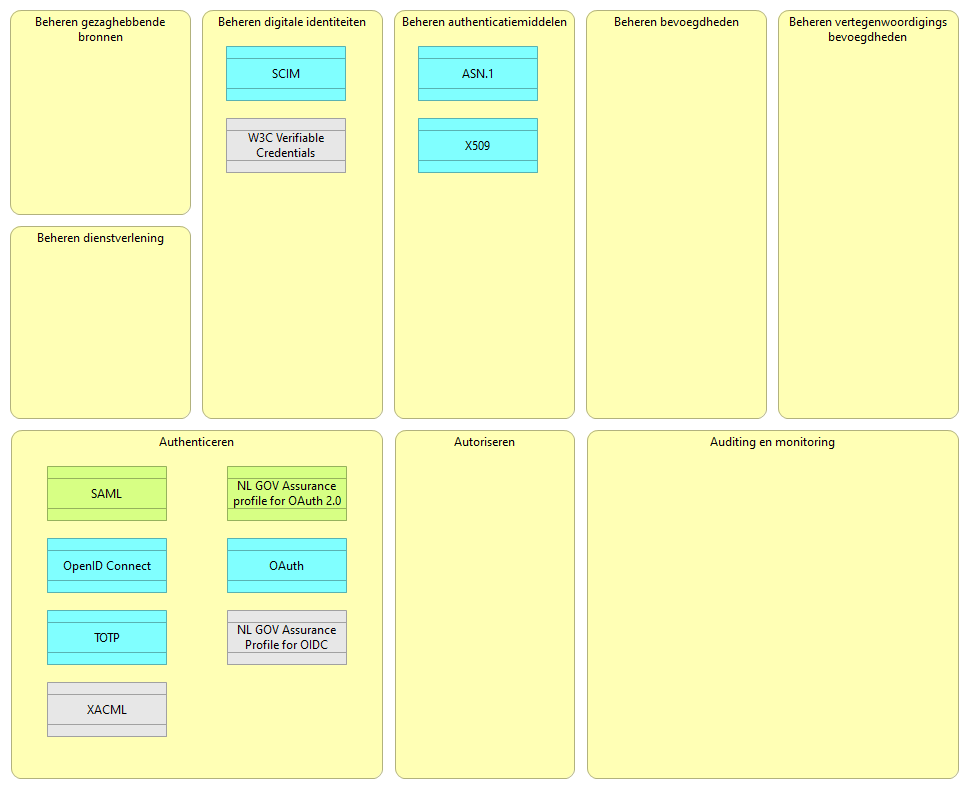
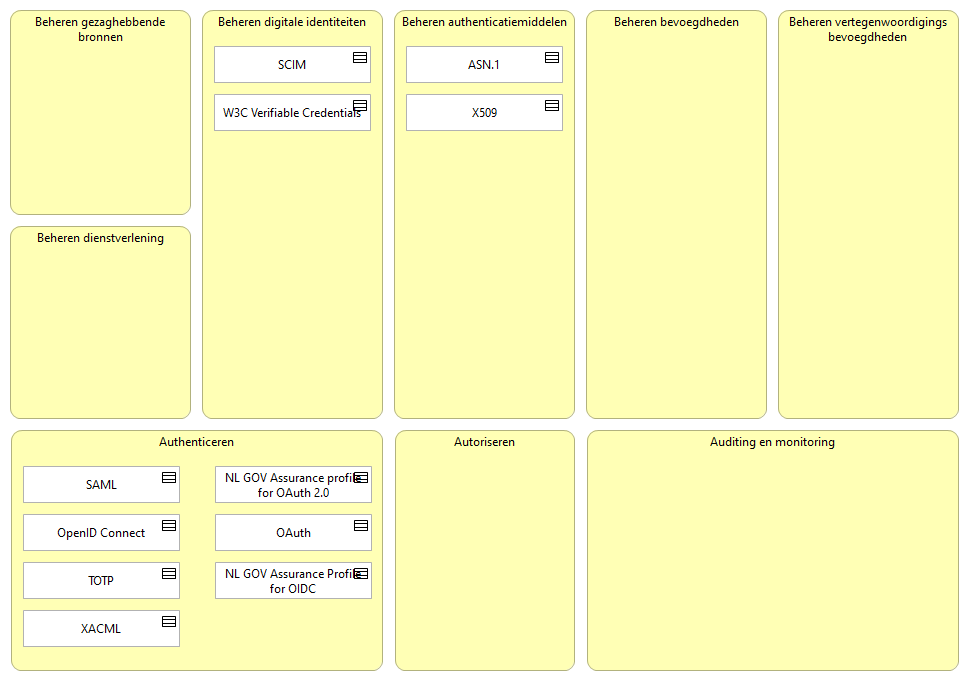
standaarden bijgewerkt

diff --git a/docs/id-3b66eec68cbc4ed8a552deca4e788391/elements/model.html b/docs/id-3b66eec68cbc4ed8a552deca4e788391/elements/model.html
@@ -159,42 +159,52 @@
 										dataFoldersContent.push({folderid:"id-2685567a88094938b56826bda78083a1", contentid:"id-67f687b1591741afbec97c61e754694b", contenttype:"Contract"});
 											dataElements.push({id:"id-67f687b1591741afbec97c61e754694b", type:"Contract", specialization:decodeURL(""), name:decodeURL("OpenID+Connect"), documentation:decodeURL("OpenID+Connect+%28OIDC%29+is+een+open+en+gedistribueerde+manier+om+%C3%A9%C3%A9n+authenticatiedienst+naar+keuze+te+kunnen+hergebruiken+bij+meerdere+%28semi-%29overheidsdienstverleners%2C+bij+gebruik+vanuit+onder+andere+webapplicaties+en+mobiele+apps.+Belangrijkste+redenen+om+op+OIDC+in+te+zetten+is+de+actieve+ontwikkelingen+en+de+mobile-first+strategie+ondersteuning+van+digitale+overheidsdiensten.")});
 														dataProperties.push({conceptid:"id-67f687b1591741afbec97c61e754694b", propkey:decodeURL("Status"), propvalue:decodeURL("Aanbevolen")});
+														dataProperties.push({conceptid:"id-67f687b1591741afbec97c61e754694b", propkey:decodeURL("URL"), propvalue:decodeURL("https%3A%2F%2Fwww.forumstandaardisatie.nl%2Fopen-standaarden%2Foidc")});
 
 										dataFoldersContent.push({folderid:"id-2685567a88094938b56826bda78083a1", contentid:"id-7470e5e65f3d4f208fe8a0f4f541ffe9", contenttype:"Contract"});
 											dataElements.push({id:"id-7470e5e65f3d4f208fe8a0f4f541ffe9", type:"Contract", specialization:decodeURL(""), name:decodeURL("NL+GOV+Assurance+Profile+for+OIDC"), documentation:decodeURL("Het+NL+GOV+Assurance+profile+for+OIDC+1.0+geeft+door+dienstverleners+aangeboden+diensten+de+mogelijkheid+om+de+identiteit+van+een+eindgebruiker+te+controleren+gebaseerd+op+verschillende+authenticatieservices+%28zoals+DigiD%29%2C+waarbij+profielinformatie+van+de+eindgebruiker+volgens+een+gestandaardiseerde+wijze+beschikbaar+wordt+gesteld+aan+de+daarvoor+geautoriseerde+diensten.")});
 														dataProperties.push({conceptid:"id-7470e5e65f3d4f208fe8a0f4f541ffe9", propkey:decodeURL("Status"), propvalue:decodeURL("In+behandeling")});
+														dataProperties.push({conceptid:"id-7470e5e65f3d4f208fe8a0f4f541ffe9", propkey:decodeURL("URL"), propvalue:decodeURL("https%3A%2F%2Fwww.forumstandaardisatie.nl%2Fopen-standaarden%2Fnl-gov-assurance-profile-oidc")});
 
 										dataFoldersContent.push({folderid:"id-2685567a88094938b56826bda78083a1", contentid:"id-8bfadaec74214885b2cfe62b7eb1f86c", contenttype:"Contract"});
 											dataElements.push({id:"id-8bfadaec74214885b2cfe62b7eb1f86c", type:"Contract", specialization:decodeURL(""), name:decodeURL("ASN.1"), documentation:decodeURL("Abstract+syntax+notation+one+%28ASN.1%29+wordt+veel+gebruikt+voor+het+beschrijven+van+X.509+certificaten+en+toepassing+daarvan.+Voorbeeld+van+een+toepassing+is+RSA+public+key+voor+beveiliging+van+het+transactieverkeer+in+de+elektronische+handel.+Hiernaast+deze+standaard+een+syntax+om+data+in+telecommunicatie+en+computer+netwerken+te+representeren%2C+te+coderen%2C+over+te+brengen+en+te+decoderen.")});
 														dataProperties.push({conceptid:"id-8bfadaec74214885b2cfe62b7eb1f86c", propkey:decodeURL("Status"), propvalue:decodeURL("Aanbevolen")});
+														dataProperties.push({conceptid:"id-8bfadaec74214885b2cfe62b7eb1f86c", propkey:decodeURL("URL"), propvalue:decodeURL("https%3A%2F%2Fwww.forumstandaardisatie.nl%2Fopen-standaarden%2Fasn1")});
 
 										dataFoldersContent.push({folderid:"id-2685567a88094938b56826bda78083a1", contentid:"id-9ce6a7b4ca1f4ab5a357b87721bfe527", contenttype:"Contract"});
 											dataElements.push({id:"id-9ce6a7b4ca1f4ab5a357b87721bfe527", type:"Contract", specialization:decodeURL(""), name:decodeURL("X509"), documentation:decodeURL("De+standaard+is+belangrijk+voor+de+authenticatie+van+applicaties%2C+gebruikers%2C+systemen+via+certificaten+op+het+internet.+Hierbij+kan+het+gaan+om+www%2C+elektronische+mail+%28beveiligd%29%2C+gebruikers+authenticatie+en+IPsec%2C+SSL+en+TLS.+Elke+gebruiker+kan+op+deze+manier+via+bijvoorbeeld+zijn+browser+verifi%C3%ABren+of+het+certificaat+dat+gebruikt+wordt+voor+de+beveiligde+koppeling+nog+valide+is+of+dat+deze+ingetrokken+is+en+of+een+verbinding+dus+wel+of+niet+veilig+is.")});
 														dataProperties.push({conceptid:"id-9ce6a7b4ca1f4ab5a357b87721bfe527", propkey:decodeURL("Status"), propvalue:decodeURL("Aanbevolen")});
+														dataProperties.push({conceptid:"id-9ce6a7b4ca1f4ab5a357b87721bfe527", propkey:decodeURL("URL"), propvalue:decodeURL("https%3A%2F%2Fwww.forumstandaardisatie.nl%2Fopen-standaarden%2Fx509")});
 
 										dataFoldersContent.push({folderid:"id-2685567a88094938b56826bda78083a1", contentid:"id-b2cd04660195460bb1efd59d273eb609", contenttype:"Contract"});
 											dataElements.push({id:"id-b2cd04660195460bb1efd59d273eb609", type:"Contract", specialization:decodeURL(""), name:decodeURL("TOTP"), documentation:decodeURL("TOTP+zorgt+ervoor+dat+een+twee-factor+authenticatie+mogelijk+is+via+een+eenmalig+wachtwoord+dat+op+dat+moment+gegenereerd+wordt+en+daarmee+nog+niet+in+het+bezit+was+vooraf+aan+de+aanvraag.+Hierdoor+is+het+eenmalige+wachtwoord+uniek+en+zorgt+voor+een+extra+beveiliging+naast+wachtwoorden+die+vaker+gebruikt+worden+om+bijvoorbeeld+in+te+loggen+in+een+account.+Daarnaast+zorgt+het+korte+tijdspad+dat+een+wachtwoord+beschikbaar+is+ervoor+dat+het+eenmalige+wachtwoord+snel+zijn+waarde+verliest.")});
 														dataProperties.push({conceptid:"id-b2cd04660195460bb1efd59d273eb609", propkey:decodeURL("Status"), propvalue:decodeURL("Aanbevolen")});
+														dataProperties.push({conceptid:"id-b2cd04660195460bb1efd59d273eb609", propkey:decodeURL("URL"), propvalue:decodeURL("https%3A%2F%2Fwww.forumstandaardisatie.nl%2Fopen-standaarden%2Ftotp")});
 
 										dataFoldersContent.push({folderid:"id-2685567a88094938b56826bda78083a1", contentid:"id-cbfc2e66e7a241e9a85294c05067f4fc", contenttype:"Contract"});
 											dataElements.push({id:"id-cbfc2e66e7a241e9a85294c05067f4fc", type:"Contract", specialization:decodeURL(""), name:decodeURL("SAML"), documentation:decodeURL("Security+Assertion+Markup+Language+%28SAML%29+is+een+standaard+voor+het+veilig+uitwisselen+van+authenticatie-+en+autorisatiegegevens+van+gebruikers+tussen+verschillende+organisaties.+SAML+maakt+het+mogelijk+om+op+een+veilige+manier+via+het+internet+toegang+te+krijgen+tot+diensten+van+verschillende+organisaties%2C+zonder+dat+je+per+dienst+eigen+inloggegevens+nodig+hebt%2C+of+bij+elke+dienst+apart+moet+inloggen.")});
 														dataProperties.push({conceptid:"id-cbfc2e66e7a241e9a85294c05067f4fc", propkey:decodeURL("Status"), propvalue:decodeURL("Verplicht")});
+														dataProperties.push({conceptid:"id-cbfc2e66e7a241e9a85294c05067f4fc", propkey:decodeURL("URL"), propvalue:decodeURL("https%3A%2F%2Fwww.forumstandaardisatie.nl%2Fopen-standaarden%2Fsaml")});
 
 										dataFoldersContent.push({folderid:"id-2685567a88094938b56826bda78083a1", contentid:"id-cce501616f9d4d9e95e14f6e725098b5", contenttype:"Contract"});
 											dataElements.push({id:"id-cce501616f9d4d9e95e14f6e725098b5", type:"Contract", specialization:decodeURL(""), name:decodeURL("NL+GOV+Assurance+profile+for+OAuth+2.0"), documentation:decodeURL("NL+GOV+Assurance+profile+for+OAuth+2.0+legt+bindende+afspraken+vast+over+het+gebruik+van+de+de+standaard+OAuth+2.0+bij+de+Nederlandse+overheid.+In+combinatie+met+onderliggende+standaard+OAuth+2.0+zorgt+NL+GOV+Assurance+profile+for+OAuth+2.0+ervoor+dat+de+autorisatie+van+gebruikers+van+REST+APIs+van+de+overheid+op+een+uniforme+en+eenduidige+plaatsvindt.")});
 														dataProperties.push({conceptid:"id-cce501616f9d4d9e95e14f6e725098b5", propkey:decodeURL("Status"), propvalue:decodeURL("Verplicht")});
+														dataProperties.push({conceptid:"id-cce501616f9d4d9e95e14f6e725098b5", propkey:decodeURL("URL"), propvalue:decodeURL("https%3A%2F%2Fwww.forumstandaardisatie.nl%2Fopen-standaarden%2Fnl-gov-assurance-profile-oauth-20")});
 
 										dataFoldersContent.push({folderid:"id-2685567a88094938b56826bda78083a1", contentid:"id-d195120a84814ba88a274e8402d2bf19", contenttype:"Contract"});
 											dataElements.push({id:"id-d195120a84814ba88a274e8402d2bf19", type:"Contract", specialization:decodeURL(""), name:decodeURL("SCIM"), documentation:decodeURL("SCIM+zorgt+ervoor+dat+identiteitsinformatie+van+gebruikers+systeemoverstijgend+op+de+juiste+plek+aanwezig+is.+Hierdoor+kunnen+gegevens+die+niet+meer+in+systemen+horen+te+staan%2C+omdat+een+gebruiker+bijvoorbeeld+niet+langer+in+dat+systeem+hoeft+te+zijn+opgenomen%2C+worden+verwijderd.+Doordat+dit+geautomatiseerd+gebeurt+is+relatief+weinig+inspanning+nodig+om+de+gewenste+toevoeging+of+verwijdering+van+gegevens+te+realiseren.+Deze+standaard+is+gericht+op+het+reduceren+van+kosten+en+complexiteit+en+het+voorbouwen+op+bestaande+protocollen.+SCIM+heeft+als+doel+om+gebruikers+snel%2C+goedkoop+en+eenvoudig+in%2C+uit+en+tussen+clouddiensten+te+brengen.")});
 														dataProperties.push({conceptid:"id-d195120a84814ba88a274e8402d2bf19", propkey:decodeURL("Status"), propvalue:decodeURL("Aanbevolen")});
+														dataProperties.push({conceptid:"id-d195120a84814ba88a274e8402d2bf19", propkey:decodeURL("URL"), propvalue:decodeURL("https%3A%2F%2Fwww.forumstandaardisatie.nl%2Fopen-standaarden%2Fscim")});
 
 										dataFoldersContent.push({folderid:"id-2685567a88094938b56826bda78083a1", contentid:"id-ea960156be254aee8b241e6e79f30d8c", contenttype:"Contract"});
 											dataElements.push({id:"id-ea960156be254aee8b241e6e79f30d8c", type:"Contract", specialization:decodeURL(""), name:decodeURL("XACML"), documentation:decodeURL("Dit+is+een+taal+voor+het+uitdrukken+van+regels+voor+toegangsverlening.+Het+definieert+de+gebruikte+begrippen+en+bevat+modellen+en+een+beschrijving+van+architectuurcomponenten%2C+waarop+de+modellen+in+het+thema+Logische+Toegang+van+dit+document+zijn+gebaseerd.")});
 														dataProperties.push({conceptid:"id-ea960156be254aee8b241e6e79f30d8c", propkey:decodeURL("Status"), propvalue:decodeURL("nvt")});
+														dataProperties.push({conceptid:"id-ea960156be254aee8b241e6e79f30d8c", propkey:decodeURL("URL"), propvalue:decodeURL("https%3A%2F%2Fdocs.oasis-open.org%2Fxacml%2F3.0%2Fxacml-3.0-core-spec-os-en.html")});
 
 										dataFoldersContent.push({folderid:"id-2685567a88094938b56826bda78083a1", contentid:"id-ea96d55372da4381a76adfcfeb4e7a69", contenttype:"Contract"});
 											dataElements.push({id:"id-ea96d55372da4381a76adfcfeb4e7a69", type:"Contract", specialization:decodeURL(""), name:decodeURL("W3C+Verifiable+Credentials"), documentation:decodeURL("Deze+specificatie+biedt+een+mechanisme+om+beweringen+over+iets+of+iemand+uit+te+drukken+op+een+manier+die+cryptografisch+veilig+is%2C+de+privacy+respecteert+en+machinaal+verifieerbaar+is.")});
 														dataProperties.push({conceptid:"id-ea96d55372da4381a76adfcfeb4e7a69", propkey:decodeURL("Status"), propvalue:decodeURL("nvt")});
+														dataProperties.push({conceptid:"id-ea96d55372da4381a76adfcfeb4e7a69", propkey:decodeURL("URL"), propvalue:decodeURL("https%3A%2F%2Fwww.w3.org%2FTR%2Fvc-data-model-2.0%2F")});
 
 
 									dataFoldersContent.push({folderid:"id-18d3d3102a5d46808f48412c7c38fcc7", contentid:"id-9cf74dde1b46462398225462cac533db", contenttype:"Folder"});

diff --git a/docs/id-3b66eec68cbc4ed8a552deca4e788391/views/id-f14d78e817cf494cabe940d8c59f8a4e.html b/docs/id-3b66eec68cbc4ed8a552deca4e788391/views/id-f14d78e817cf494cabe940d8c59f8a4e.html
@@ -36,24 +36,24 @@
 				  		<area shape="rect" coords="778,10,959,419" href="../elements/id-c5998016874b4a3f9a80d62f09af3f33.html"  target="element">
 				  		<area shape="rect" coords="10,226,191,419" href="../elements/id-256454e9e1434b858b4214c65b1cb3ab.html"  target="element">
 				  		<area shape="rect" coords="10,10,191,215" href="../elements/id-9786d6dbbd44482c97d2ac83bf79bd38.html"  target="element">
-				  		<area shape="rect" coords="395,430,575,779" href="../elements/id-b750feb34d9c40588f9443c33145b59e.html"  target="element">
-				  				<area shape="rect" coords="226,118,346,173" href="../elements/id-ea96d55372da4381a76adfcfeb4e7a69.html"  target="element">
-				  				<area shape="rect" coords="226,46,346,101" href="../elements/id-d195120a84814ba88a274e8402d2bf19.html"  target="element">
+				  		<area shape="rect" coords="395,430,575,671" href="../elements/id-b750feb34d9c40588f9443c33145b59e.html"  target="element">
+				  				<area shape="rect" coords="214,94,371,131" href="../elements/id-ea96d55372da4381a76adfcfeb4e7a69.html"  target="element">
+				  				<area shape="rect" coords="214,46,371,83" href="../elements/id-d195120a84814ba88a274e8402d2bf19.html"  target="element">
 
 				  		<area shape="rect" coords="202,10,383,419" href="../elements/id-079caeb56ec2440cad449a57741e2837.html"  target="element">
-				  		<area shape="rect" coords="587,430,959,779" href="../elements/id-89cae607ed114aa9b258920260a4499c.html"  target="element">
+				  		<area shape="rect" coords="587,430,959,671" href="../elements/id-89cae607ed114aa9b258920260a4499c.html"  target="element">
 				  		<area shape="rect" coords="586,10,767,419" href="../elements/id-83db5a52a2914474a04a7152fa9d12e0.html"  target="element">
-				  				<area shape="rect" coords="227,610,347,665" href="../elements/id-7470e5e65f3d4f208fe8a0f4f541ffe9.html"  target="element">
-				  				<area shape="rect" coords="47,610,167,665" href="../elements/id-b2cd04660195460bb1efd59d273eb609.html"  target="element">
-				  				<area shape="rect" coords="47,682,167,737" href="../elements/id-ea960156be254aee8b241e6e79f30d8c.html"  target="element">
-				  				<area shape="rect" coords="47,466,167,521" href="../elements/id-cbfc2e66e7a241e9a85294c05067f4fc.html"  target="element">
-				  				<area shape="rect" coords="47,538,167,593" href="../elements/id-67f687b1591741afbec97c61e754694b.html"  target="element">
-				  				<area shape="rect" coords="227,466,347,521" href="../elements/id-cce501616f9d4d9e95e14f6e725098b5.html"  target="element">
-				  				<area shape="rect" coords="227,538,347,593" href="../elements/id-5d2511feb7e7472d93d2e0db27457b7e.html"  target="element">
+				  				<area shape="rect" coords="215,562,372,599" href="../elements/id-7470e5e65f3d4f208fe8a0f4f541ffe9.html"  target="element">
+				  				<area shape="rect" coords="23,562,180,599" href="../elements/id-b2cd04660195460bb1efd59d273eb609.html"  target="element">
+				  				<area shape="rect" coords="23,610,180,647" href="../elements/id-ea960156be254aee8b241e6e79f30d8c.html"  target="element">
+				  				<area shape="rect" coords="23,466,180,503" href="../elements/id-cbfc2e66e7a241e9a85294c05067f4fc.html"  target="element">
+				  				<area shape="rect" coords="23,514,180,551" href="../elements/id-67f687b1591741afbec97c61e754694b.html"  target="element">
+				  				<area shape="rect" coords="215,466,372,503" href="../elements/id-cce501616f9d4d9e95e14f6e725098b5.html"  target="element">
+				  				<area shape="rect" coords="215,514,372,551" href="../elements/id-5d2511feb7e7472d93d2e0db27457b7e.html"  target="element">
 
-				  		<area shape="rect" coords="11,430,383,779" href="../elements/id-71518055a4194c55844b0ed040dacbe2.html"  target="element">
-				  				<area shape="rect" coords="418,118,538,173" href="../elements/id-9ce6a7b4ca1f4ab5a357b87721bfe527.html"  target="element">
-				  				<area shape="rect" coords="418,46,538,101" href="../elements/id-8bfadaec74214885b2cfe62b7eb1f86c.html"  target="element">
+				  		<area shape="rect" coords="11,430,383,671" href="../elements/id-71518055a4194c55844b0ed040dacbe2.html"  target="element">
+				  				<area shape="rect" coords="406,94,563,131" href="../elements/id-9ce6a7b4ca1f4ab5a357b87721bfe527.html"  target="element">
+				  				<area shape="rect" coords="406,46,563,83" href="../elements/id-8bfadaec74214885b2cfe62b7eb1f86c.html"  target="element">
 
 				  		<area shape="rect" coords="394,10,575,419" href="../elements/id-fe587c1bae3c453285eccb764194ced3.html"  target="element">
 

diff --git a/docs/index.html b/docs/index.html
@@ -86,16 +86,16 @@
 											</li><li class="tree-folder "><span><i class="glyphicon glyphicon-triangle-right"></i> Standaarden </span>
 											<ul>
 															<li class="tree-element  "><a href="id-3b66eec68cbc4ed8a552deca4e788391/elements/id-5d2511feb7e7472d93d2e0db27457b7e.html" target="element"> OAuth </a></li>
-															<li class="tree-element  "><a href="id-3b66eec68cbc4ed8a552deca4e788391/elements/id-67f687b1591741afbec97c61e754694b.html" target="element"> OpenID Connect </a></li>
-															<li class="tree-element  "><a href="id-3b66eec68cbc4ed8a552deca4e788391/elements/id-7470e5e65f3d4f208fe8a0f4f541ffe9.html" target="element"> NL GOV Assurance Profile for OIDC </a></li>
-															<li class="tree-element  "><a href="id-3b66eec68cbc4ed8a552deca4e788391/elements/id-8bfadaec74214885b2cfe62b7eb1f86c.html" target="element"> ASN.1 </a></li>
-															<li class="tree-element  "><a href="id-3b66eec68cbc4ed8a552deca4e788391/elements/id-9ce6a7b4ca1f4ab5a357b87721bfe527.html" target="element"> X509 </a></li>
-															<li class="tree-element  "><a href="id-3b66eec68cbc4ed8a552deca4e788391/elements/id-b2cd04660195460bb1efd59d273eb609.html" target="element"> TOTP </a></li>
-															<li class="tree-element  "><a href="id-3b66eec68cbc4ed8a552deca4e788391/elements/id-cbfc2e66e7a241e9a85294c05067f4fc.html" target="element"> SAML </a></li>
-															<li class="tree-element  "><a href="id-3b66eec68cbc4ed8a552deca4e788391/elements/id-cce501616f9d4d9e95e14f6e725098b5.html" target="element"> NL GOV Assurance profile for OAuth 2.0 </a></li>
-															<li class="tree-element  "><a href="id-3b66eec68cbc4ed8a552deca4e788391/elements/id-d195120a84814ba88a274e8402d2bf19.html" target="element"> SCIM </a></li>
-															<li class="tree-element  "><a href="id-3b66eec68cbc4ed8a552deca4e788391/elements/id-ea960156be254aee8b241e6e79f30d8c.html" target="element"> XACML </a></li>
-															<li class="tree-element  "><a href="id-3b66eec68cbc4ed8a552deca4e788391/elements/id-ea96d55372da4381a76adfcfeb4e7a69.html" target="element"> W3C Verifiable Credentials </a></li>
+															<li class="tree-element   "><a href="id-3b66eec68cbc4ed8a552deca4e788391/elements/id-67f687b1591741afbec97c61e754694b.html" target="element"> OpenID Connect </a></li>
+															<li class="tree-element   "><a href="id-3b66eec68cbc4ed8a552deca4e788391/elements/id-7470e5e65f3d4f208fe8a0f4f541ffe9.html" target="element"> NL GOV Assurance Profile for OIDC </a></li>
+															<li class="tree-element   "><a href="id-3b66eec68cbc4ed8a552deca4e788391/elements/id-8bfadaec74214885b2cfe62b7eb1f86c.html" target="element"> ASN.1 </a></li>
+															<li class="tree-element   "><a href="id-3b66eec68cbc4ed8a552deca4e788391/elements/id-9ce6a7b4ca1f4ab5a357b87721bfe527.html" target="element"> X509 </a></li>
+															<li class="tree-element   "><a href="id-3b66eec68cbc4ed8a552deca4e788391/elements/id-b2cd04660195460bb1efd59d273eb609.html" target="element"> TOTP </a></li>
+															<li class="tree-element   "><a href="id-3b66eec68cbc4ed8a552deca4e788391/elements/id-cbfc2e66e7a241e9a85294c05067f4fc.html" target="element"> SAML </a></li>
+															<li class="tree-element   "><a href="id-3b66eec68cbc4ed8a552deca4e788391/elements/id-cce501616f9d4d9e95e14f6e725098b5.html" target="element"> NL GOV Assurance profile for OAuth 2.0 </a></li>
+															<li class="tree-element   "><a href="id-3b66eec68cbc4ed8a552deca4e788391/elements/id-d195120a84814ba88a274e8402d2bf19.html" target="element"> SCIM </a></li>
+															<li class="tree-element   "><a href="id-3b66eec68cbc4ed8a552deca4e788391/elements/id-ea960156be254aee8b241e6e79f30d8c.html" target="element"> XACML </a></li>
+															<li class="tree-element   "><a href="id-3b66eec68cbc4ed8a552deca4e788391/elements/id-ea96d55372da4381a76adfcfeb4e7a69.html" target="element"> W3C Verifiable Credentials </a></li>
 
 											</ul>
 											</li><li class="tree-folder "><span><i class="glyphicon glyphicon-triangle-right"></i> Bedrijfsfuncties </span>

diff --git a/docs/id-3b66eec68cbc4ed8a552deca4e788391/elements/id-7470e5e65f3d4f208fe8a0f4f541ffe9.html b/docs/id-3b66eec68cbc4ed8a552deca4e788391/elements/id-7470e5e65f3d4f208fe8a0f4f541ffe9.html
@@ -56,7 +56,7 @@
 								</tr>
 							</thead>
 							<tbody>
-								<tr><td>Status</td><td class="convertlinks no-margin" style="white-space:pre-wrap">In behandeling</td></tr>
+								<tr><td>Status</td><td class="convertlinks no-margin" style="white-space:pre-wrap">In behandeling</td></tr><tr><td>URL</td><td class="convertlinks no-margin" style="white-space:pre-wrap">https://www.forumstandaardisatie.nl/open-standaarden/nl-gov-assurance-profile-oidc</td></tr>
 							</tbody>
 						</table>
 					</div>

diff --git a/docs/id-3b66eec68cbc4ed8a552deca4e788391/elements/id-cce501616f9d4d9e95e14f6e725098b5.html b/docs/id-3b66eec68cbc4ed8a552deca4e788391/elements/id-cce501616f9d4d9e95e14f6e725098b5.html
@@ -56,7 +56,7 @@
 								</tr>
 							</thead>
 							<tbody>
-								<tr><td>Status</td><td class="convertlinks no-margin" style="white-space:pre-wrap">Verplicht</td></tr>
+								<tr><td>Status</td><td class="convertlinks no-margin" style="white-space:pre-wrap">Verplicht</td></tr><tr><td>URL</td><td class="convertlinks no-margin" style="white-space:pre-wrap">https://www.forumstandaardisatie.nl/open-standaarden/nl-gov-assurance-profile-oauth-20</td></tr>
 							</tbody>
 						</table>
 					</div>

diff --git a/docs/id-3b66eec68cbc4ed8a552deca4e788391/elements/id-67f687b1591741afbec97c61e754694b.html b/docs/id-3b66eec68cbc4ed8a552deca4e788391/elements/id-67f687b1591741afbec97c61e754694b.html
@@ -56,7 +56,7 @@
 								</tr>
 							</thead>
 							<tbody>
-								<tr><td>Status</td><td class="convertlinks no-margin" style="white-space:pre-wrap">Aanbevolen</td></tr>
+								<tr><td>Status</td><td class="convertlinks no-margin" style="white-space:pre-wrap">Aanbevolen</td></tr><tr><td>URL</td><td class="convertlinks no-margin" style="white-space:pre-wrap">https://www.forumstandaardisatie.nl/open-standaarden/oidc</td></tr>
 							</tbody>
 						</table>
 					</div>

diff --git a/docs/id-3b66eec68cbc4ed8a552deca4e788391/elements/id-8bfadaec74214885b2cfe62b7eb1f86c.html b/docs/id-3b66eec68cbc4ed8a552deca4e788391/elements/id-8bfadaec74214885b2cfe62b7eb1f86c.html
@@ -56,7 +56,7 @@
 								</tr>
 							</thead>
 							<tbody>
-								<tr><td>Status</td><td class="convertlinks no-margin" style="white-space:pre-wrap">Aanbevolen</td></tr>
+								<tr><td>Status</td><td class="convertlinks no-margin" style="white-space:pre-wrap">Aanbevolen</td></tr><tr><td>URL</td><td class="convertlinks no-margin" style="white-space:pre-wrap">https://www.forumstandaardisatie.nl/open-standaarden/asn1</td></tr>
 							</tbody>
 						</table>
 					</div>

diff --git a/docs/id-3b66eec68cbc4ed8a552deca4e788391/elements/id-9ce6a7b4ca1f4ab5a357b87721bfe527.html b/docs/id-3b66eec68cbc4ed8a552deca4e788391/elements/id-9ce6a7b4ca1f4ab5a357b87721bfe527.html
@@ -56,7 +56,7 @@
 								</tr>
 							</thead>
 							<tbody>
-								<tr><td>Status</td><td class="convertlinks no-margin" style="white-space:pre-wrap">Aanbevolen</td></tr>
+								<tr><td>Status</td><td class="convertlinks no-margin" style="white-space:pre-wrap">Aanbevolen</td></tr><tr><td>URL</td><td class="convertlinks no-margin" style="white-space:pre-wrap">https://www.forumstandaardisatie.nl/open-standaarden/x509</td></tr>
 							</tbody>
 						</table>
 					</div>

diff --git a/docs/id-3b66eec68cbc4ed8a552deca4e788391/elements/id-b2cd04660195460bb1efd59d273eb609.html b/docs/id-3b66eec68cbc4ed8a552deca4e788391/elements/id-b2cd04660195460bb1efd59d273eb609.html
@@ -56,7 +56,7 @@
 								</tr>
 							</thead>
 							<tbody>
-								<tr><td>Status</td><td class="convertlinks no-margin" style="white-space:pre-wrap">Aanbevolen</td></tr>
+								<tr><td>Status</td><td class="convertlinks no-margin" style="white-space:pre-wrap">Aanbevolen</td></tr><tr><td>URL</td><td class="convertlinks no-margin" style="white-space:pre-wrap">https://www.forumstandaardisatie.nl/open-standaarden/totp</td></tr>
 							</tbody>
 						</table>
 					</div>

diff --git a/docs/id-3b66eec68cbc4ed8a552deca4e788391/elements/id-d195120a84814ba88a274e8402d2bf19.html b/docs/id-3b66eec68cbc4ed8a552deca4e788391/elements/id-d195120a84814ba88a274e8402d2bf19.html
@@ -56,7 +56,7 @@
 								</tr>
 							</thead>
 							<tbody>
-								<tr><td>Status</td><td class="convertlinks no-margin" style="white-space:pre-wrap">Aanbevolen</td></tr>
+								<tr><td>Status</td><td class="convertlinks no-margin" style="white-space:pre-wrap">Aanbevolen</td></tr><tr><td>URL</td><td class="convertlinks no-margin" style="white-space:pre-wrap">https://www.forumstandaardisatie.nl/open-standaarden/scim</td></tr>
 							</tbody>
 						</table>
 					</div>

diff --git a/docs/id-3b66eec68cbc4ed8a552deca4e788391/elements/id-cbfc2e66e7a241e9a85294c05067f4fc.html b/docs/id-3b66eec68cbc4ed8a552deca4e788391/elements/id-cbfc2e66e7a241e9a85294c05067f4fc.html
@@ -56,7 +56,7 @@
 								</tr>
 							</thead>
 							<tbody>
-								<tr><td>Status</td><td class="convertlinks no-margin" style="white-space:pre-wrap">Verplicht</td></tr>
+								<tr><td>Status</td><td class="convertlinks no-margin" style="white-space:pre-wrap">Verplicht</td></tr><tr><td>URL</td><td class="convertlinks no-margin" style="white-space:pre-wrap">https://www.forumstandaardisatie.nl/open-standaarden/saml</td></tr>
 							</tbody>
 						</table>
 					</div>

diff --git a/docs/id-3b66eec68cbc4ed8a552deca4e788391/elements/id-ea960156be254aee8b241e6e79f30d8c.html b/docs/id-3b66eec68cbc4ed8a552deca4e788391/elements/id-ea960156be254aee8b241e6e79f30d8c.html
@@ -56,7 +56,7 @@
 								</tr>
 							</thead>
 							<tbody>
-								<tr><td>Status</td><td class="convertlinks no-margin" style="white-space:pre-wrap">nvt</td></tr>
+								<tr><td>Status</td><td class="convertlinks no-margin" style="white-space:pre-wrap">nvt</td></tr><tr><td>URL</td><td class="convertlinks no-margin" style="white-space:pre-wrap">https://docs.oasis-open.org/xacml/3.0/xacml-3.0-core-spec-os-en.html</td></tr>
 							</tbody>
 						</table>
 					</div>
